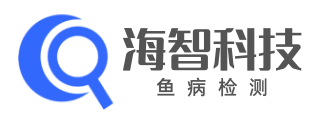
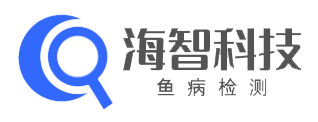
鱼病检测平台1.1,修改了iTest的登录跳转,articles的顶部栏.文章页的部分logo

diff --git a/src/components/fish/fish-info.vue b/src/components/fish/fish-info.vue
@@ -22,7 +22,7 @@
                     </div>
                 </div>
                  <div class="specialInfo">
-                    <div class="specialInfoTitle"><span>鱼鳃病</span></div>
+                    <div class="specialInfoTitle"><span>消化道病</span></div>
                     <div class="specialInfoContent">
                         <a v-for="item in computerArtBox" :key="item.art_id">
                             <div class="infoItem" @click="goArticle(item.art_id)">
@@ -35,7 +35,7 @@
                     </div>
                 </div>
                  <div class="specialInfo">
-                    <div class="specialInfoTitle"><span>消化道病</span></div>
+                    <div class="specialInfoTitle"><span>鱼鳃病</span></div>
                     <div class="specialInfoContent">
                         <a v-for="item in padArtBox" :key="item.art_id">
                             <div class="infoItem" @click="goArticle(item.art_id)">
@@ -45,7 +45,7 @@
                         </a>
                     </div>
                 </div>
-                <div class="specialInfo">
+                <!-- <div class="specialInfo">
                     <div class="specialInfoTitle"><span>内脏病</span></div>
                     <div class="specialInfoContent">
                         <a v-for="item in padArtBox" :key="item.art_id">
@@ -55,7 +55,7 @@
                             </div>
                         </a>
                     </div>
-                </div>
+                </div> -->
             </div>
         </div>
     </div>
@@ -78,7 +78,7 @@ export default {
   },
   methods: {
     async getPhoneArt () {
-      const { data: res } = await this.$http.get('index/article/phone/query/0/4')
+      const { data: res } = await this.$http.get('index/article/phone/query/1/3')
       this.phoneArtBox = res.data
     },
     async getComputerArt () {
@@ -96,6 +96,7 @@ export default {
           it: articleId // 文章号
         }
       })
+      console.log('123')
     }
   }
 }
@@ -134,7 +135,7 @@ export default {
     }
     .infoContent{
         display: grid;
-        grid-template-columns: 1fr 1fr 1fr 1fr;
+        grid-template-columns: 1fr 1fr 1fr;
         grid-column-gap: 10px;
     }
     .specialInfo{

diff --git a/src/views/fishText.vue b/src/views/fishText.vue
@@ -1,8 +1,5 @@
 <template>
   <div id="article-wrapper">
-    <!-- ITest -->
-    <!-- <new-top-nav></new-top-nav> -->
-    <!-- 鱼病 -->
     <fish-top-nav></fish-top-nav>
     <new-article :art_data="art_data"></new-article>
     <foot></foot>
@@ -10,19 +7,12 @@
 </template>
 
 <script>
-// import ArticleLayer from '../components/article/article-layer.vue'
 import Foot from '../components/foot.vue'
-// iTest
-// import NewTopNav from '../components/home/new-top-nav.vue'
 import NewArticle from '../components/article/new-article.vue'
-// 鱼病
-import fishTopNav from '../components/fish/fish-top-nav.vue'
+import FishTopNav from '../components/fish/fish-top-nav.vue'
 export default {
-  // 鱼病
-  components: { Foot, NewArticle, fishTopNav },
-  // ITest
-  // components: { NewTopNav, Foot, NewArticle },
-  name: 'articles',
+  components: { Foot, NewArticle, FishTopNav },
+  name: 'fishText',
   props: {
   },
   data () {
@@ -51,7 +41,7 @@ export default {
     getAriticleInfo () {
       this.$http({
         method: 'get',
-        url: '/index/article/searchArticleById/' + this.$route.query.it // 将传进来的文章号进行拼串并发送请求
+        url: '/index/fishText/searchArticleById/' + this.$route.query.it // 将传进来的文章号进行拼串并发送请求
       }).then(
         ({ data: res }) => {
           this.art_data = res.data

diff --git a/src/views/fishPhotoWall.vue b/src/views/fishPhotoWall.vue
@@ -8,10 +8,10 @@
                 <el-tab-pane label="皮肤病" name="active">
                     <product v-bind:picSrc="item.type_image" v-bind:productName="item.type_name" v-bind:productPrice="item.type_price" v-for="item in phonePic" :key="item.type_id"></product>
                 </el-tab-pane>
-                <el-tab-pane label="鱼鳃病" name="">
+                <el-tab-pane label="消化道病" name="">
                     <product v-bind:picSrc="item.type_image" v-bind:productName="item.type_name" v-bind:productPrice="item.type_price" v-for="item in computerPic" :key="item.type_id"></product>
                 </el-tab-pane>
-                <el-tab-pane label="消化道病" name="">
+                <el-tab-pane label="鱼鳃病" name="">
                     <product v-bind:picSrc="item.type_image" v-bind:productName="item.type_name" v-bind:productPrice="item.type_price" v-for="item in padPic" :key="item.type_id"></product>
                 </el-tab-pane>
                 <el-tab-pane label="内脏病" name="">
@@ -42,7 +42,7 @@ export default {
       console.log(tab, event)
     },
     async getPhonePic () {
-      const { data: res } = await this.$http.get('index/type/phone/0/12')
+      const { data: res } = await this.$http.get('index/type/phone/1/10')
       this.phonePic = res.data
     },
     async getComputerPic () {

diff --git a/src/components/article/new-article.vue b/src/components/article/new-article.vue
@@ -44,9 +44,14 @@
 
             </div>
             <div class="iTest">
-                <img src="../home/home-img/article-right2.gif" alt="">
+                <!-- ITest -->
+                <!-- <img src="../home/home-img/article-right2.gif" alt="">
                 <img src="../home/home-img/article-right.gif" alt="">
-                <img src="../home/home-img/article-right3.gif" alt="">
+                <img src="../home/home-img/article-right3.gif" alt=""> -->
+                <!-- 鱼病 -->
+                <img src="../fish/fishText1.gif" alt="">
+                <img src="../fish/fishText2.gif" alt="">
+                <img src="../fish/fishText3.gif" alt="">
             </div>
         </div>
     </div>

diff --git a/src/router/index.js b/src/router/index.js
@@ -18,6 +18,7 @@ const fishHome = () => import('../views/fishHome.vue')
 const fishVideo = () => import('../views/fishVideo.vue')
 const fishArticle = () => import('../views/fishArticle.vue')
 const fishPhotoWall = () => import('../views/fishPhotoWall.vue')
+const fishText = () => ('../views/fishText.vue')
 
 Vue.use(VueRouter)
 
@@ -109,10 +110,16 @@ const router = new VueRouter({
       path: '/fishArticle',
       name: '/fishArticle',
       component: fishArticle
-    }, {
+    },
+    {
       path: '/fishPhotoWall',
       name: '/fishPhotoWall',
       component: fishPhotoWall
+    },
+    {
+      path: '/fishText',
+      name: '/fishText',
+      component: fishText
     },
     {
       path: '/*',

diff --git a/src/components/products/product.vue b/src/components/products/product.vue
@@ -1,10 +1,10 @@
 <template>
     <div class="product">
         <img v-bind:src="picSrc">
-        <div class="product-info">
+        <!-- <div class="product-info">
             <p class="product-name" v-text="productName"></p>
             <p class="product-price" v-text="productPrice"></p>
-        </div>
+        </div> -->
     </div>
 </template>
 
@@ -32,7 +32,7 @@ export default {
         transform: translateY(-10px);
     }
     .product img{
-        width: 130px;
+        width: 200px;
         transition: all .4s;
     }
     .product img:hover{

diff --git a/src/components/fish/fish-top-nav.vue b/src/components/fish/fish-top-nav.vue
@@ -24,7 +24,7 @@
                     <span>动态</span>
                     <span>收藏</span>
                 </div> -->
-                <div style="cursor: pointer;">
+                <div style="cursor: pointer;" class="avatar">
                     <img src="../home/home-img/Bear.jpg" alt="">
                 </div>
             </div>
@@ -136,5 +136,8 @@ export default {
         border: none;
         color: black;
         font-weight: 700;
+    }
+    .avatar{
+        padding-top: 5px;
     }
 </style>

diff --git a/src/components/login/login-form.vue b/src/components/login/login-form.vue
@@ -83,7 +83,7 @@ export default {
                 this.$message.success('登录成功！欢迎回到Itest！')
                 window.sessionStorage.setItem('token', res.msg)
                 this.getUserInfo(this.loginForm.user_id, window.sessionStorage.getItem('token'))
-                this.$router.push('/home')
+                this.$router.push('/fishHome')
               },
               ({ data: res }) => {
                 this.$message.warning('网络错误，请稍后重试！')

diff --git a/src/views/login.vue b/src/views/login.vue
@@ -1,6 +1,6 @@
 <template>
   <div class="container">
-    <div class="logo"><img src="../components/home/home-img/newT3.png" alt=""></div>
+    <div class="logo"><img src="../components/fish/海智科技鱼病检测.png" alt=""></div>
     <div class="form-box">
       <div class="box-base login-box" :class="showSign?'retate-sign':''">
         <login-form></login-form>

diff --git a/src/views/fishHome.vue b/src/views/fishHome.vue
@@ -46,7 +46,7 @@ export default {
   },
   methods: {
     async getSlideImges () {
-      const { data: res } = await this.$http.get('index/slideshow/query/0/4')
+      const { data: res } = await this.$http.get('index/slideshow/query/4/4')
       this.bannerBox = res.data
     },
     next () { // 往下切换

diff --git a/src/components/fish/fish-video-com.vue b/src/components/fish/fish-video-com.vue
@@ -61,7 +61,7 @@ export default {
         margin: 0 0 20px 0;
         display: grid;
         grid-template-columns: 1fr 1fr 1fr 1fr;
-        grid-template-rows: 1fr 1fr;
+        grid-template-rows: 1fr 1fr ;
         place-items: center center;
         grid-row-gap: 3%;
         grid-column-gap: 2%;

diff --git a/src/views/fishVideo.vue b/src/views/fishVideo.vue
@@ -24,7 +24,7 @@ export default {
   },
   methods: {
     async getFishVideo () {
-      const { data: res } = await this.$http.get('index/video/queryPhoneVideo/0/6')
+      const { data: res } = await this.$http.get('index/video/queryPhoneVideo/2/8')
       this.fishVideoList = res.data
     }
   }
